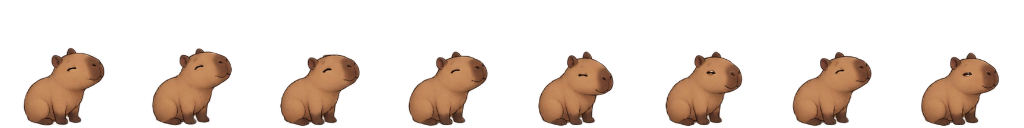
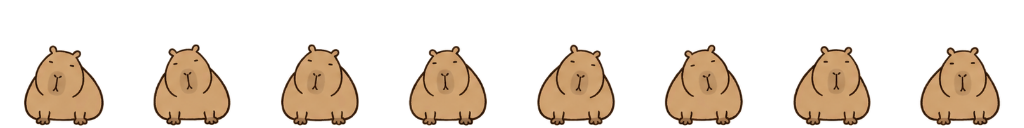
style(mewcat): 카피바라를 점눈과 투박한 그림체로 변경

Changed region(s): [[0.0, 0.3438, 1.0, 1.0]]

diff --git a/docs/features/화면·계정·운영/Mewcat 마스코트·알림·휴식.md b/docs/features/화면·계정·운영/Mewcat 마스코트·알림·휴식.md
@@ -8,7 +8,7 @@ updated: "2026-10-08"
[1 lines of base64/hex data omitted]
 files: ["src/components/header-notifications.tsx", "src/utils/mewcat-notifications.ts", "src/components/Mewcat.tsx", "src/components/mewcat-skin-settings.tsx", "src/components/mewcat-size-settings.tsx", "src/utils/mewcat-size-preferences.ts", "src/utils/mewcat-sprites.ts", "src/utils/mewcat-sprite-storage.ts", "src/components/mewcat-fullscreen-guide.tsx", "src/components/mewcat-resources.tsx", "src/components/SettingsModal.tsx", "src/components/mewcat-notifications.tsx", "src/hooks/use-mewcat-notifications.ts", "src/utils/mewcat-notification-rules.ts", "src/components/mewcat-break.tsx", "src/hooks/use-mewcat-break.ts", "src/utils/mewcat-break-rules.ts"]
 commits: []
-description: "뮤캣의 화면 바닥 배치·모바일 독 겹침·기본 크기 조절, 실루엣·아기 고양이·러시안블루·코리안 숏헤어·카피바라 내장 스킨과 상승·하강을 분리한 일곱 동작의 커스텀 스킨, 이동·끌기·던지는 방향으로 바라보기·전체화면 안내를 정의한다. 이전 기본 SVG·털색 설정 제거와 에이전트·자원·헤더·OS 알림, 선택적 거대 뮤캣 휴식의 저장·입력 유지 규칙도 설명한다."
+description: "뮤캣의 화면 바닥 배치·모바일 독 겹침·기본 크기 조절, 고양이 네 종류와 점눈·투박한 그림체의 카피바라 내장 스킨, 상승·하강을 분리한 일곱 동작의 커스텀 스킨, 이동·끌기·던지는 방향으로 바라보기·전체화면 안내를 정의한다. 이전 기본 SVG·털색 설정 제거와 에이전트·자원·헤더·OS 알림, 선택적 거대 뮤캣 휴식의 저장·입력 유지 규칙도 설명한다."
 상위파일:
   - "MOC.md"
   - "_화면·계정·운영.md"
@@ -135,7 +135,7 @@ run 중 하나를 무작위로 골라 수행한다. 스프라이트의 동작별
 설정 창의 **뮤캣** 카테고리에서 화면별 스킨을 고른다. 첫 카드는 **없음**이며, 선택하면 Mewcat을
 렌더링하지 않는다. **실루엣 고양이**, **아기 고양이**, **러시안블루**, **코리안 숏헤어**, **카피바라**와 사용자가 등록한 스킨을 실제 그림의 정적 미리보기로 선택한다. 실루엣이 기본값이며 내부 ID `mew`를 유지해 이전 기본 선택도 새 그림을 표시한다. 다른 스킨·없음 선택은 유지한다. 선택 ID는 scoped localStorage의 `mew:mewcat-skin`에 저장하며 이전 `oreo` 값도 실루엣으로 이관한다. scoped 선택이 아직 없으면 기존 origin 공통 설정의 없음·기본 선택을 이어받으며 커스텀 ID는 다른 인스턴스로 이관하지 않는다.
 
-러시안블루(`russian-blue`)는 청회색 털과 초록 눈, 코리안 숏헤어(`korean-shorthair`)는 주황 줄무늬와 흰 주둥이·가슴·발, 카피바라(`capybara`)는 갈색 몸통·둥근 귀·넓은 주둥이로 구분한다. 세 스킨 모두 다른 내장 스킨과 같은 일곱 동작·상승과 하강 분리·좌우 반전·끌기·휴식·원격 표시를 지원한다.
+러시안블루(`russian-blue`)는 청회색 털과 초록 눈, 코리안 숏헤어(`korean-shorthair`)는 주황 줄무늬와 흰 주둥이·가슴·발로 구분한다. 카피바라(`capybara`)는 넓고 둔한 주둥이·둥근 귀·큰 갈색 몸통에 작은 가로 점눈과 멍한 표정을 유지한다. 일곱 동작 모두 굵고 조금 삐뚤한 선과 단순한 갈색 면으로 대충 그린 듯한 그림체를 사용하며 눈 반짝임·광택·세밀한 털 묘사를 넣지 않는다. 세 스킨 모두 다른 내장 스킨과 같은 일곱 동작·상승과 하강 분리·좌우 반전·끌기·휴식·원격 표시를 지원한다.
 
 이전 기본 SVG 고양이와 전용 털색 선택기·HEX·초기화는 사용자 요청으로 제거했다. 기존 `mew:mewcat-fur-color` 값은 사용하지 않으며 사용자 요청 전 이전 캐릭터·털색 설정을 재도입하지 않는다. 내장·업로드 스킨의 색은 이미지 그대로 표시한다.
 
@@ -159,7 +159,7 @@ run 중 하나를 무작위로 골라 수행한다. 스프라이트의 동작별
 
 `src/utils/mewcat-sprites.ts`가 프레임·재생 주기 계약을, `mewcat-sprite-storage.ts`가 이미지 검사·IndexedDB·포인터 알파 경로를, `mewcat-skin-settings.tsx`가 등록·수정 UI를 소유한다. `Mewcat.tsx`의 기존 물리·포인터 처리에서 상태별 프레임을 진행한다.
 
-아기 고양이는 `public/mewcat/kitten/`, 검정 실루엣은 `public/mewcat/silhouette/`, 추가 동물은 `public/mewcat/russian-blue/`·`public/mewcat/korean-shorthair/`·`public/mewcat/capybara/`에 보관한다. 각 스킨은 일곱 1024×128 투명 PNG이며 동작당 8프레임이다. 상승·하강도 별도 이미지로 제공한다. 내장 image_gen으로 제작한 뒤 동일한 128px 셀·발바닥 기준선으로 정렬했다. 실루엣은 흑백 팔레트로 정규화한다. 생성 프롬프트와 산출물 규격은 각 폴더의 `source.json`에, 기존 두 스킨의 별도 상승·하강 생성 기록은 `airborne-source.json`에 남긴다. 내장 ID·이름·폴더는 `mewcatSkin.ts`에서 함께 관리하여 미리보기·실제 렌더링·예제 다운로드가 같은 스킨을 사용한다. 외부 오레오캣 자산은 사용하지 않는다.
+아기 고양이는 `public/mewcat/kitten/`, 검정 실루엣은 `public/mewcat/silhouette/`, 추가 동물은 `public/mewcat/russian-blue/`·`public/mewcat/korean-shorthair/`·`public/mewcat/capybara/`에 보관한다. 각 스킨은 일곱 1024×128 투명 PNG이며 동작당 8프레임이다. 상승·하강도 별도 이미지로 제공한다. 내장 image_gen으로 제작한 뒤 동일한 128px 셀·발바닥 기준선으로 정렬했다. 실루엣은 흑백 팔레트로 정규화한다. 생성 프롬프트와 산출물 규격은 각 폴더의 `source.json`에, 기존 두 스킨의 별도 상승·하강 생성 기록은 `airborne-source.json`에 남긴다. 카피바라의 이전 생성 기록은 같은 `source.json`의 `previousSources`에 보존한다. 내장 ID·이름·폴더는 `mewcatSkin.ts`에서 함께 관리하여 미리보기·실제 렌더링·예제 다운로드가 같은 스킨을 사용한다. 외부 오레오캣 자산은 사용하지 않는다.
 
 ```bash
 node --test src/utils/mewcat-sprites.test.ts src/utils/mewcatSkin.test.ts server/mewcat-skins-ui.test.ts server/mewcat-grab-ui.test.ts
